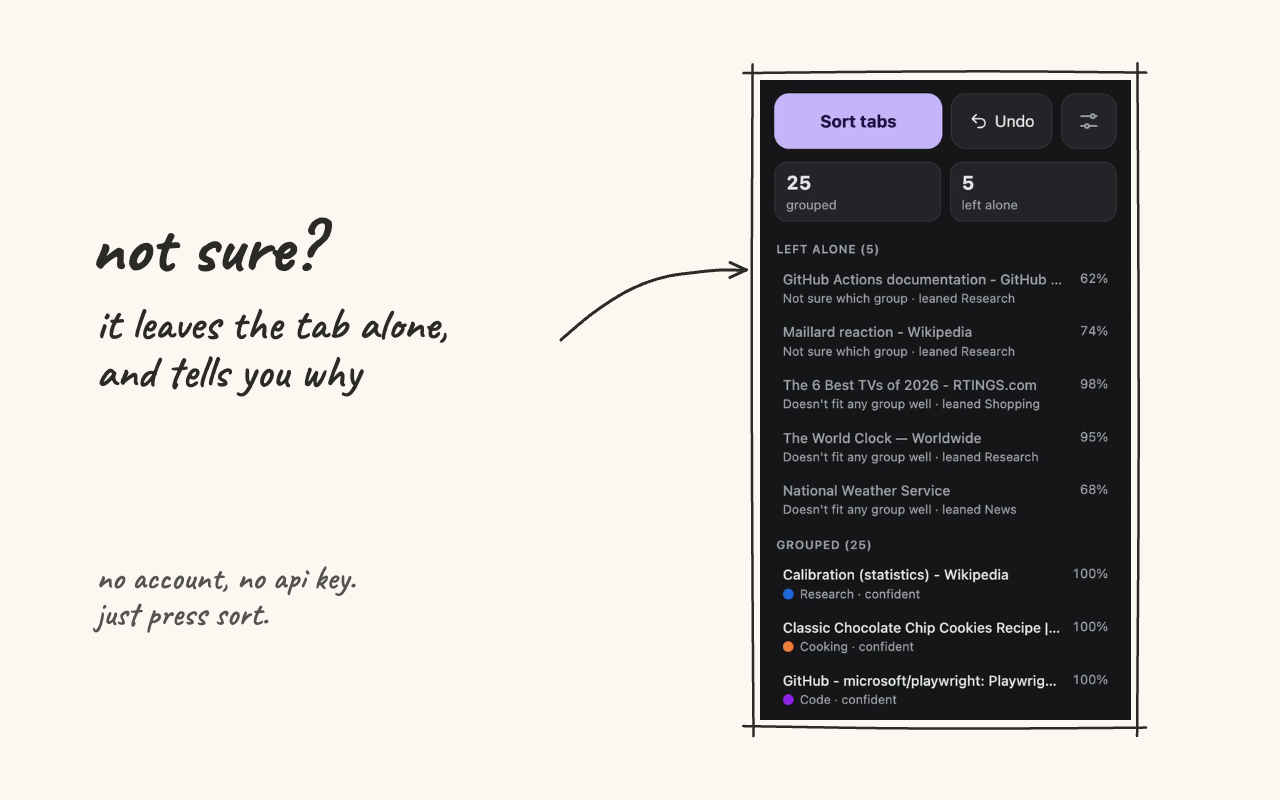
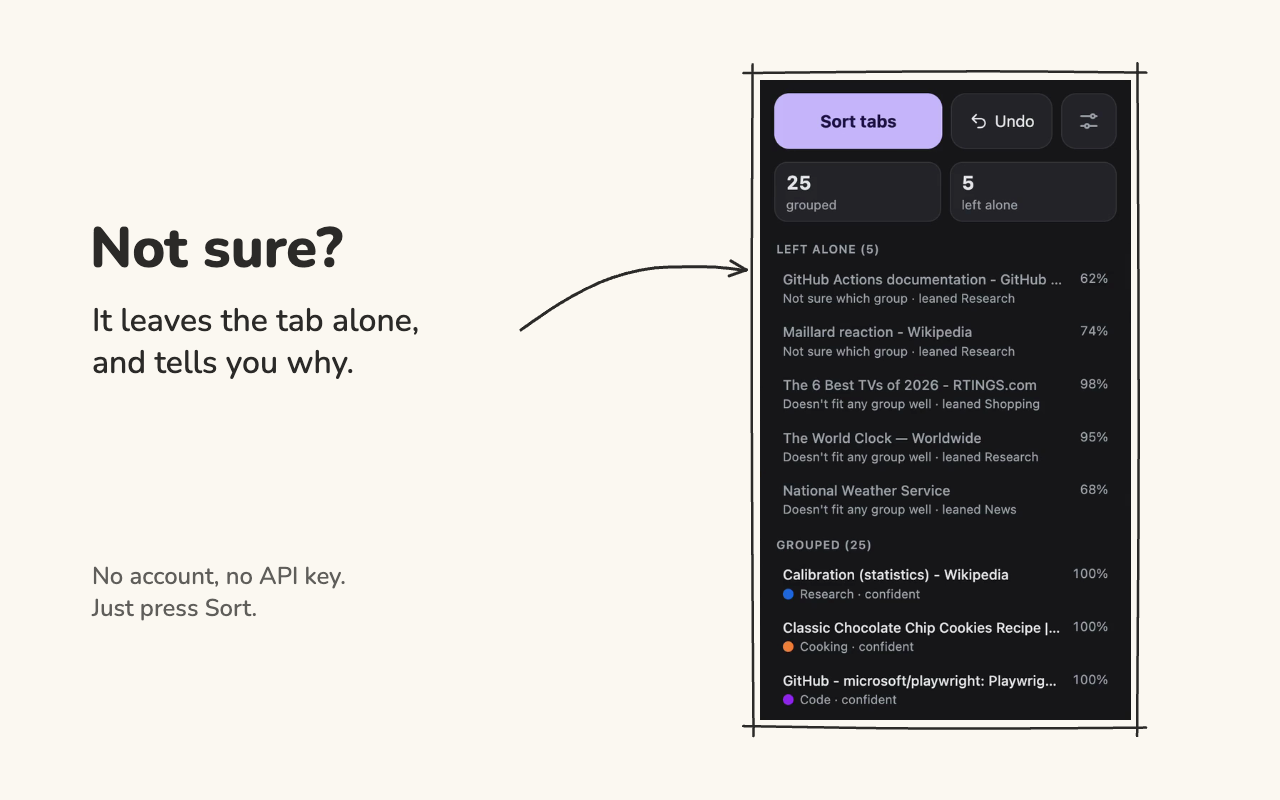
feat(store): set store captions in Nunito for legibility

diff --git a/store/make-assets.ts b/store/make-assets.ts
@@ -145,8 +145,8 @@ const page = await browser.newPage();
 async function render(w: number, h: number, body: string, svg: string, path: string) {
   await page.setViewportSize({ width: w, height: h });
   await page.setContent(`<!doctype html><meta charset="utf-8">
-    <link href="https://fonts.googleapis.com/css2?family=Caveat:wght@500;700&display=block" rel="stylesheet">
-    <style>html,body{margin:0;width:${w}px;height:${h}px;overflow:hidden;background:${PAPER};color:${INK};font-family:Caveat,cursive}
+    <link href="https://fonts.googleapis.com/css2?family=Nunito:wght@500;700;800&display=block" rel="stylesheet">
+    <style>html,body{margin:0;width:${w}px;height:${h}px;overflow:hidden;background:${PAPER};color:${INK};font-family:Nunito,sans-serif}
     body{position:relative}</style>${body}
     <svg width="${w}" height="${h}" style="position:absolute;inset:0">${svg}</svg>`);
   await page.waitForLoadState("networkidle");
@@ -160,9 +160,9 @@ const FH = Math.round((860 * FW) / 1920);
 const [FX, FY] = [90, 236];
 
 await render(1280, 800,
-  text("sorts your tabs into groups", 90, 48, 64, "font-weight:700") + text("…only the ones it's sure about", 110, 124, 40) +
-    text("and tells you about the rest", 860, 92, 34) + img(shots.sorted, FX, FY, FW, FH),
-  arrow([470, 180], [400, FY - 16], 0.25, 11) + arrow([1010, 136], [930, FY - 16], 0.12, 21) + inkFrame(FX, FY, FW, FH, 31),
+  text("Sorts your tabs into groups", 90, 52, 46, "font-weight:800") + text("Only the ones it's sure about", 92, 114, 28) +
+    text("And tells you about the rest", 850, 98, 24) + img(shots.sorted, FX, FY, FW, FH),
+  arrow([440, 162], [400, FY - 16], 0.25, 11) + arrow([1000, 136], [930, FY - 16], 0.12, 21) + inkFrame(FX, FY, FW, FH, 31),
   join(OUT, "screenshot-1.png"));
 
 // The popup crop is 520×896; shown 640 tall.
@@ -170,20 +170,20 @@ const PH = 640;
 const PW = Math.round((520 * PH) / 896);
 const [PX, PY] = [760, 80];
 await render(1280, 800,
-  text("not sure?", 90, 210, 72, "font-weight:700") + text("it leaves the tab alone,<br>and tells you why", 96, 300, 46) +
-    text("no account, no api key.<br>just press sort.", 96, 560, 34, "opacity:.8") + img(shots.popup, PX, PY, PW, PH),
-  arrow([560, 340], [PX - 14, PY + 190], -0.12, 41) + inkFrame(PX, PY, PW, PH, 51),
+  text("Not sure?", 90, 220, 56, "font-weight:800") + text("It leaves the tab alone,<br>and tells you why.", 92, 300, 32, "line-height:1.3") +
+    text("No account, no API key.<br>Just press Sort.", 92, 560, 24, "line-height:1.35;opacity:.75") + img(shots.popup, PX, PY, PW, PH),
+  arrow([520, 330], [PX - 14, PY + 190], -0.12, 41) + inkFrame(PX, PY, PW, PH, 51),
   join(OUT, "screenshot-2.png"));
 
 await render(1280, 800,
-  text("before: thirty tabs, no order", 90, 60, 64, "font-weight:700") + img(shots.messy, FX, FY, FW, FH),
-  arrow([700, 112], [540, FY - 16], 0.22, 61) + inkFrame(FX, FY, FW, FH, 71),
+  text("Before: thirty tabs, no order", 90, 60, 46, "font-weight:800") + img(shots.messy, FX, FY, FW, FH),
+  arrow([640, 128], [540, FY - 16], 0.22, 61) + inkFrame(FX, FY, FW, FH, 71),
   join(OUT, "screenshot-3.png"));
 
 await render(1280, 800,
-  text("undo puts every tab back", 90, 48, 64, "font-weight:700") + text("even the groups you made yourself", 110, 124, 40) +
+  text("Undo puts every tab back", 90, 52, 46, "font-weight:800") + text("Even the groups you made yourself", 92, 114, 28) +
     img(shots.undone, FX, FY, FW, FH),
-  arrow([520, 180], [450, FY - 16], 0.25, 81) + inkFrame(FX, FY, FW, FH, 91),
+  arrow([480, 162], [440, FY - 16], 0.25, 81) + inkFrame(FX, FY, FW, FH, 91),
   join(OUT, "screenshot-4.png"));
 
 // The Options crop is 800×1000; shown 640 tall.
@@ -191,20 +191,20 @@ const OH = 640;
 const OW = Math.round((800 * OH) / 1000);
 const [OX, OY] = [660, 80];
 await render(1280, 800,
-  text("you write the groups.", 90, 230, 60, "font-weight:700") + text("and you can see exactly<br>what gets sent", 96, 310, 44) +
+  text("You write<br>the groups.", 90, 196, 46, "font-weight:800;line-height:1.15") + text("And you can see exactly<br>what gets sent.", 92, 320, 32, "line-height:1.3") +
     img(opt, OX, OY, OW, OH),
-  arrow([520, 400], [OX - 18, OY + 150], -0.15, 101) + inkFrame(OX, OY, OW, OH, 111),
+  arrow([470, 340], [OX - 18, OY + 150], -0.15, 101) + inkFrame(OX, OY, OW, OH, 111),
   join(OUT, "screenshot-5.png"));
 
 await render(440, 280,
-  text("tab-triage", 40, 62, 84, "font-weight:700") + text("sorts your tabs, only when it's sure", 44, 200, 30),
+  text("tab-triage", 40, 66, 64, "font-weight:800;letter-spacing:-1px") + text("Sorts your tabs, only when it's sure", 44, 196, 20),
   scribbles(46, 170, 50, 14, 9, 121),
   join(OUT, "promo-small.png"));
 
 const MH = 470;
 const MW = Math.round((520 * MH) / 896);
 await render(1400, 560,
-  text("tab-triage", 100, 150, 130, "font-weight:700") + text("sorts your tabs into groups,<br>only when it's sure. undo anytime.", 106, 340, 44) +
+  text("tab-triage", 100, 150, 104, "font-weight:800;letter-spacing:-2px") + text("Sorts your tabs into groups,<br>only when it's sure. Undo anytime.", 106, 340, 34, "line-height:1.3") +
     img(shots.popup, 1400 - 120 - MW, 45, MW, MH),
   scribbles(108, 305, 78, 18, 13, 131) + inkFrame(1400 - 120 - MW, 45, MW, MH, 141),
   join(OUT, "promo-marquee.png"));
